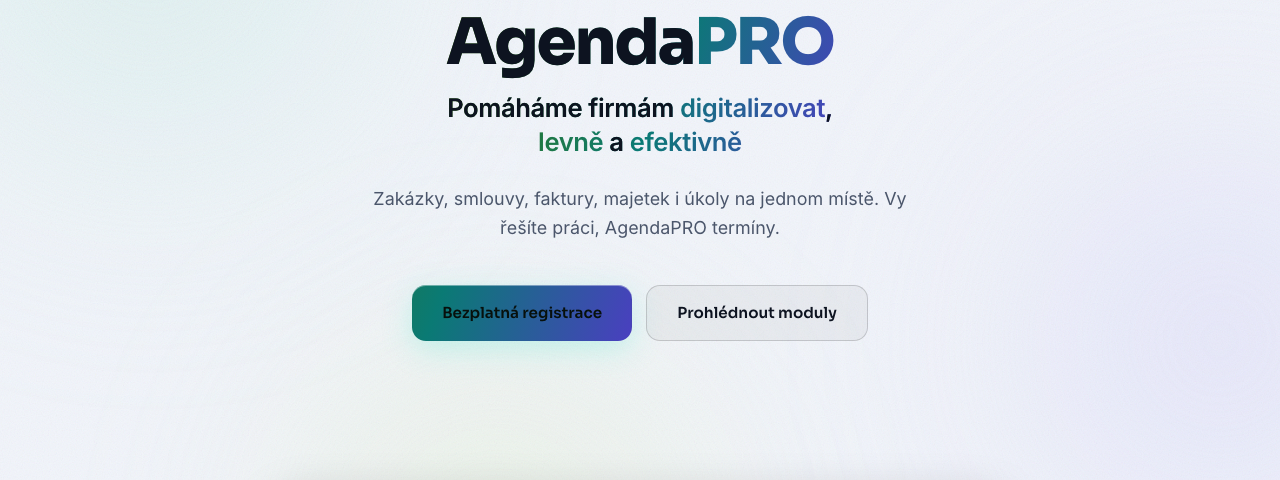
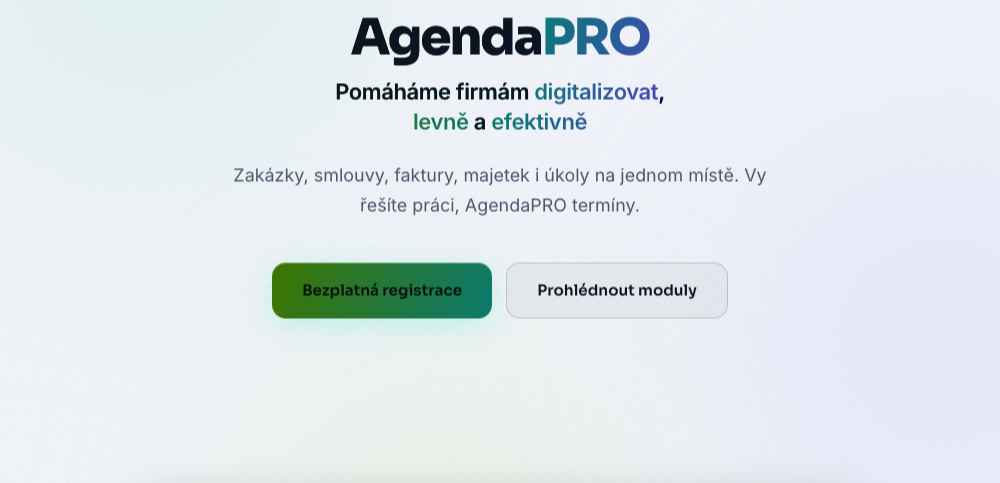
fix: náhledy mají poměr karty, takže se nic neořezává
První verze byla 1280×480, ale rámeček náhledu je 435×210 — tedy jiný
poměr stran. `object-fit: cover` proto ukrojil z obou stran skoro
čtvrtinu a u Šmajdy uřízl začátek nadpisu („ÁŠ DOMOV"). Text byl navíc
z 1280 px zmenšený na třetinu a v kartě nečitelný.

Nové záběry jsou z okna 1000 px a oříznuté na 1000×483, což je poměr
rámečku. Nic se tedy neořezává do stran a obsah je o čtvrtinu větší.

diff --git a/index.html b/index.html
@@ -691,7 +691,7 @@ const track = document.getElementById('reviews-track');
   <div class="web-grid">
     <div class="web-card glass">
       <div class="web-preview">
-        <img src="nahledy/agendapro.png" width="1280" height="480" loading="lazy" decoding="async" alt="Úvodní stránka webu AgendaPRO">
+        <img src="nahledy/agendapro.png" width="1000" height="483" loading="lazy" decoding="async" alt="Úvodní stránka webu AgendaPRO">
         <a class="web-preview-overlay" href="https://www.agendapro.cz" target="_blank" rel="noopener" aria-label="Otevřít AgendaPRO"></a>
       </div>
       <div class="web-body">
@@ -703,7 +703,7 @@ const track = document.getElementById('reviews-track');
     </div>
     <div class="web-card glass">
       <div class="web-preview">
-        <img src="nahledy/smajda.png" width="1280" height="480" loading="lazy" decoding="async" alt="Úvodní stránka webu Šmajda Rekonstrukce">
+        <img src="nahledy/smajda.png" width="1000" height="483" loading="lazy" decoding="async" alt="Úvodní stránka webu Šmajda Rekonstrukce">
         <a class="web-preview-overlay" href="https://rekonstrukcesmajda.cz" target="_blank" rel="noopener" aria-label="Otevřít Šmajda Rekonstrukce"></a>
       </div>
       <div class="web-body">
